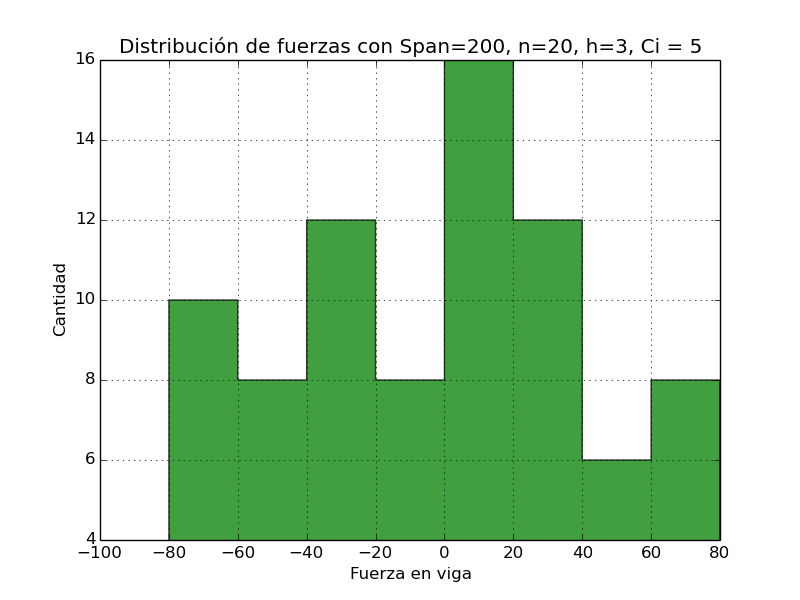
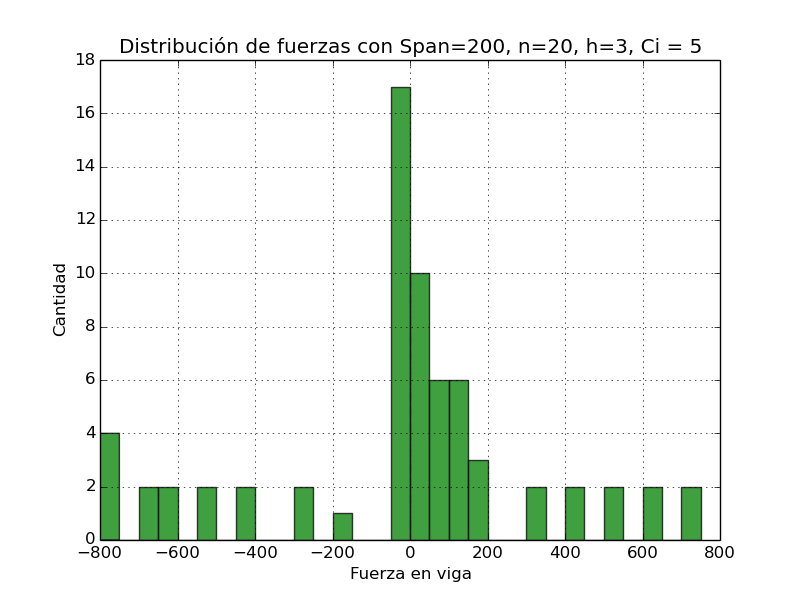
Added new graphs, fixed experiments

diff --git a/experiments.py b/experiments.py
@@ -307,7 +307,6 @@ class NHistStudy(BaseExperimento):
             'display-forces', self.span, self.h, n] + C]
         output = check_output(prog_args)
         self.resultados.append(output)
-        from ipdb import set_trace; set_trace()
         print "%s, %s, %s, %s, %s" % (
             self.span, (self.span/n), ((self.span/n)/self.h), self.max_force(prog_args, output),
             self.max_force_name(prog_args, output))
@@ -317,7 +316,8 @@ class NHistStudy(BaseExperimento):
         forces = output[1:]
         lines = [float(line) for line in forces if line]
 
-        x, bins, patches = plt.hist(lines, range(-1000, 1000, 200), histtype='bar')
+        bins = range(-1000, 1000, 200)
+        x, bins, patches = plt.hist(lines, histtype='bar')
         plt.setp(patches, 'facecolor', 'g', 'alpha', 0.75)
         plt.autoscale(True, 'both', False)
         plt.title(u"Distribución de fuerzas con Span=100, n=%s, h=3, Ci=%.2f" % (n, C[0]))
@@ -344,7 +344,8 @@ class NHistStudy(BaseExperimento):
         cost = output[0]
         forces = output[1:]
         lines = [float(line) for line in forces if line]
-        x, bins, patches = plt.hist(lines, range(-100, 100, 20), histtype='stepfilled')
+        bins = range(-100, 100, 20)
+        x, bins, patches = plt.hist(lines, histtype='bar')
         plt.setp(patches, 'facecolor', 'g', 'alpha', 0.75)
         plt.autoscale(True, 'both', False)
         plt.title(u"Distribución de fuerzas con Span=100, n=%s, h=3, Ci=%.2f" % (n, C[0]))
@@ -361,7 +362,7 @@ class NHistStudy(BaseExperimento):
         total_c = 1000.0
         C = [total_c/(n - 1)] * int(n - 1)
         prog_args = ["%s" % arg for arg in [executable] + [
-            self.span, self.h, n] + C]
+            'display-forces', self.span, self.h, n] + C]
         output = check_output(prog_args)
         self.resultados.append(output)
         print "%s, %s, %s, %s, %s" % (
@@ -369,7 +370,8 @@ class NHistStudy(BaseExperimento):
             self.max_force_name(prog_args, output))
 
         lines = [float(line) for line in output.split('\n')[1: -1]]
-        x, bins, patches = plt.hist(lines, range(-40000, 40000, 5000), histtype='stepfilled')
+        bins = range(-40000, 40000, 5000),
+        x, bins, patches = plt.hist(lines, histtype='bar')
         plt.setp(patches, 'facecolor', 'g', 'alpha', 0.75)
         plt.autoscale(True, 'both', False)
         plt.title(u"Distribución de fuerzas con Span=100, n=%s, h=3, Ci=%.2f" % (n, C[0]))
@@ -385,7 +387,7 @@ class NHistStudy(BaseExperimento):
 
         C = [total_c/(n - 1)] * int(n - 1)
         prog_args = ["%s" % arg for arg in [executable] + [
-            self.span, self.h, n] + C]
+            'display-forces', self.span, self.h, n] + C]
         output = check_output(prog_args)
         self.resultados.append(output)
         print "%s, %s, %s, %s, %s" % (
@@ -393,7 +395,8 @@ class NHistStudy(BaseExperimento):
             self.max_force_name(prog_args, output))
 
         lines = [float(line) for line in output.split('\n')[1: -1]]
-        x, bins, patches = plt.hist(lines, range(-4000, 4000, 200), histtype='stepfilled')
+        bins = range(-4000, 4000, 200)
+        x, bins, patches = plt.hist(lines, histtype='bar')
         plt.setp(patches, 'facecolor', 'g', 'alpha', 0.75)
         plt.autoscale(True, 'both', False)
         plt.title(u"Distribución de fuerzas con Span=100, n=%s, h=3, Ci=%.2f" % (n, C[0]))
@@ -418,7 +421,7 @@ if __name__ == '__main__':
     #study = SpanStudyExp2()
 
     # Hist distribución de fuerzas span=200,n=20, h=3, Ci=5,
-    #study = SpanHistogramStudy()
+    study = SpanHistogramStudy()
 
     # Fuerza máxima carga central, span variable
     #study = SpanCentralWeightStudy()

diff --git a/codigo/tp2.cpp b/codigo/tp2.cpp
@@ -492,13 +492,14 @@ int main (int argc, char * argv[]) {
         int i; // Offset de args para cargar datos
         do_benchmark = true;
 
-        if(strcmp(argv[1], "display-forces\n") == 0) {
+        if(strcmp(argv[1], "display-forces") == 0) {
             display_forces = true;
             span = atof(argv[2]);
             h = atof(argv[3]);
             n = atof(argv[4]);
             i = 5;
         } else {
+            cout << argv[1] << endl;
             span = atof(argv[1]);
             h = atof(argv[2]);
             n = atof(argv[3]);
@@ -535,7 +536,7 @@ int main (int argc, char * argv[]) {
     double tiempo_total = get_time();
 
     if (display_forces) {
-        dibujar_diagonal(m, n);
+        dibujar_diagonal(m, 4 * n - 3);
     } else {
         for (set<pilar_costo, ltstr>::iterator i = resultado.pilares.begin(); i != resultado.pilares.end(); i++) {
         cout << (*i).pilar << " ";
